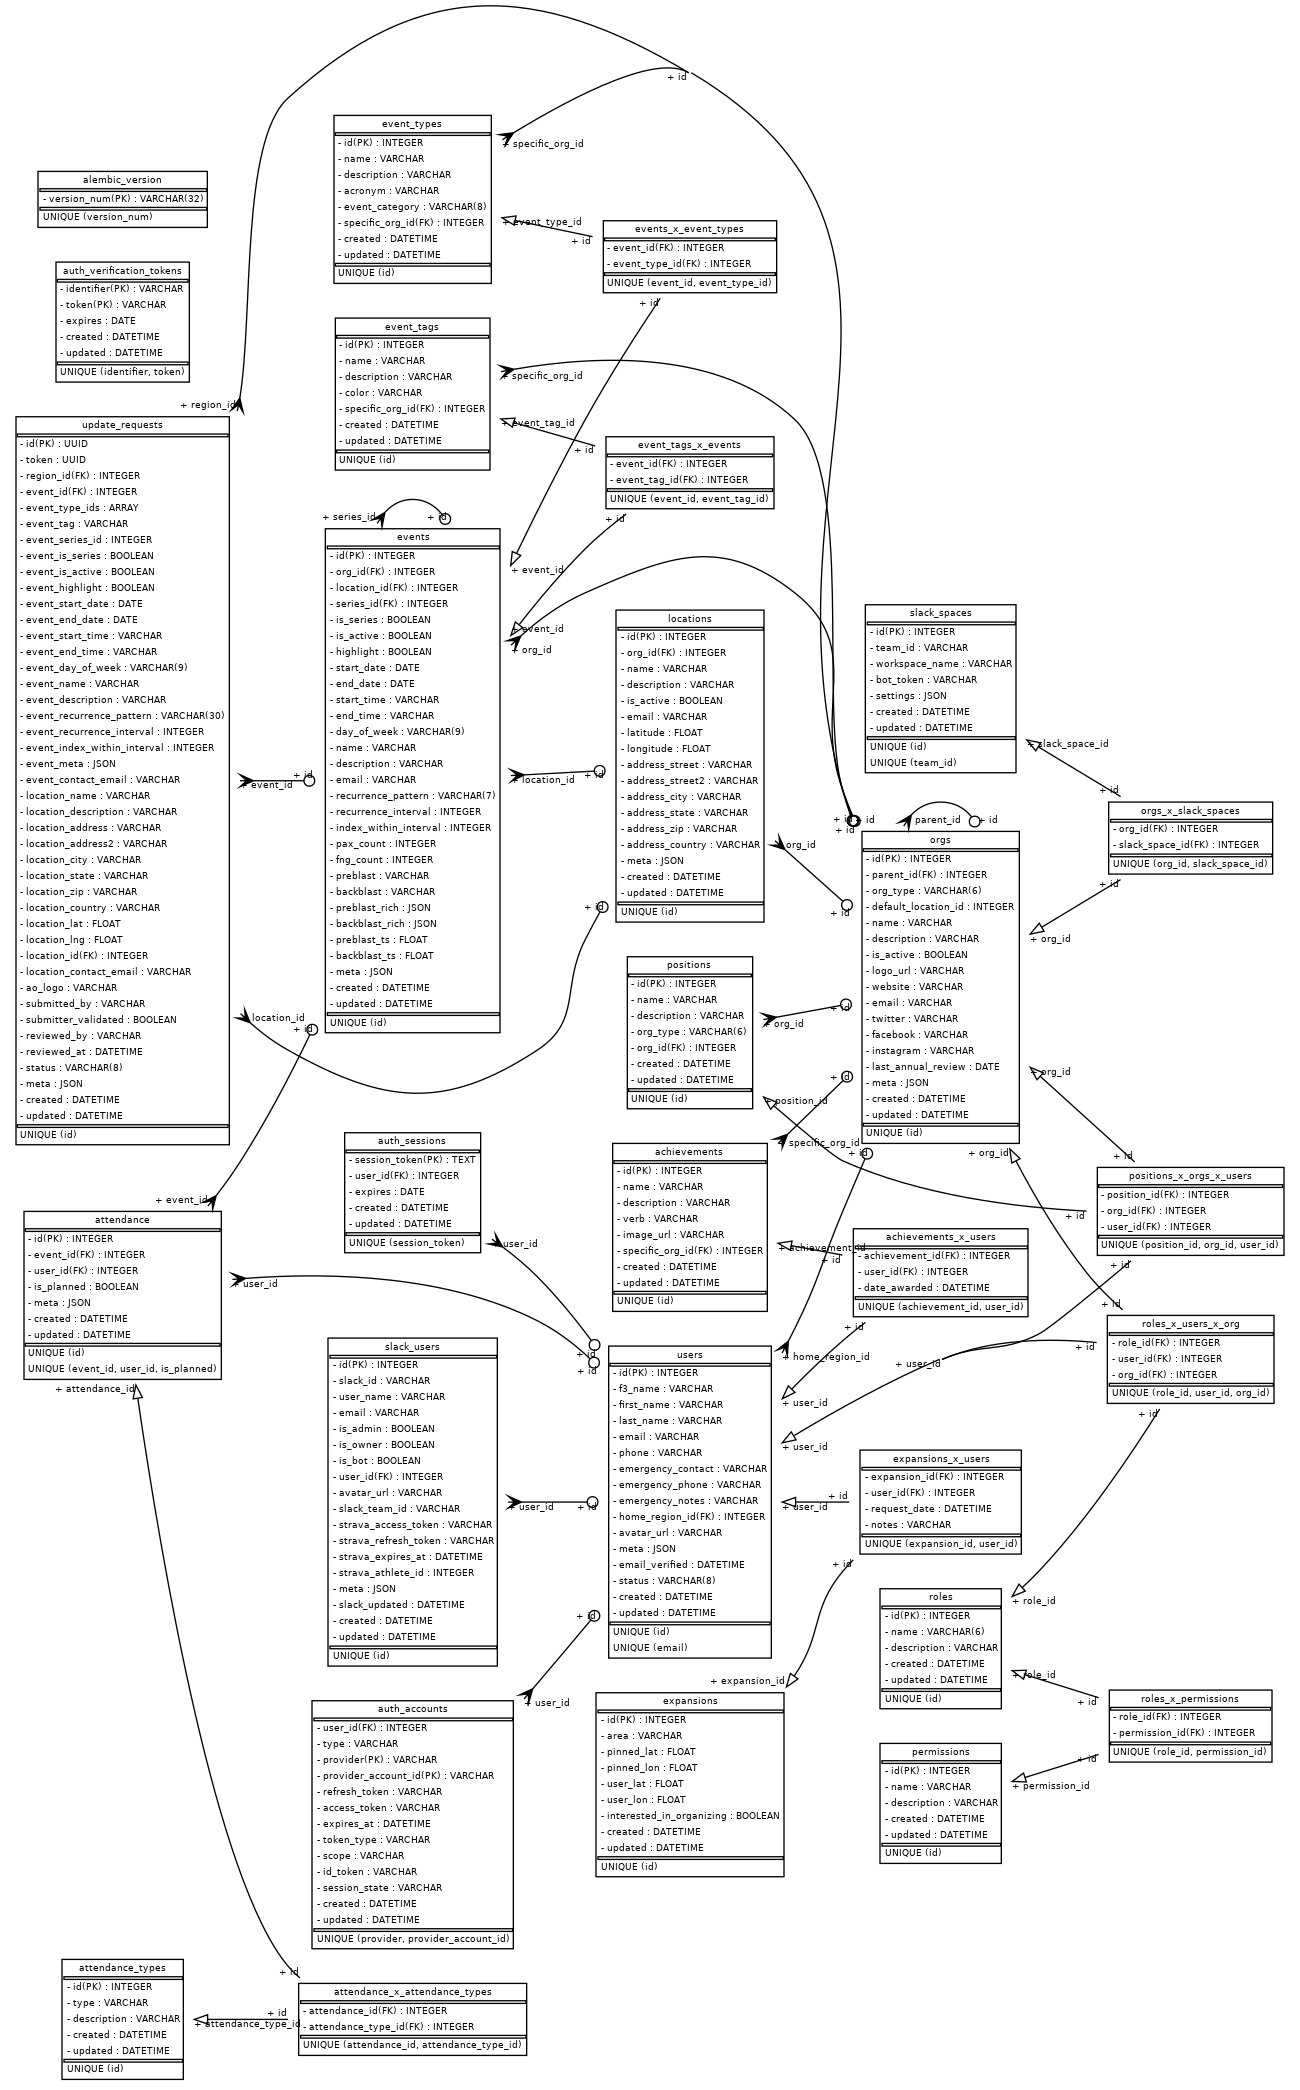
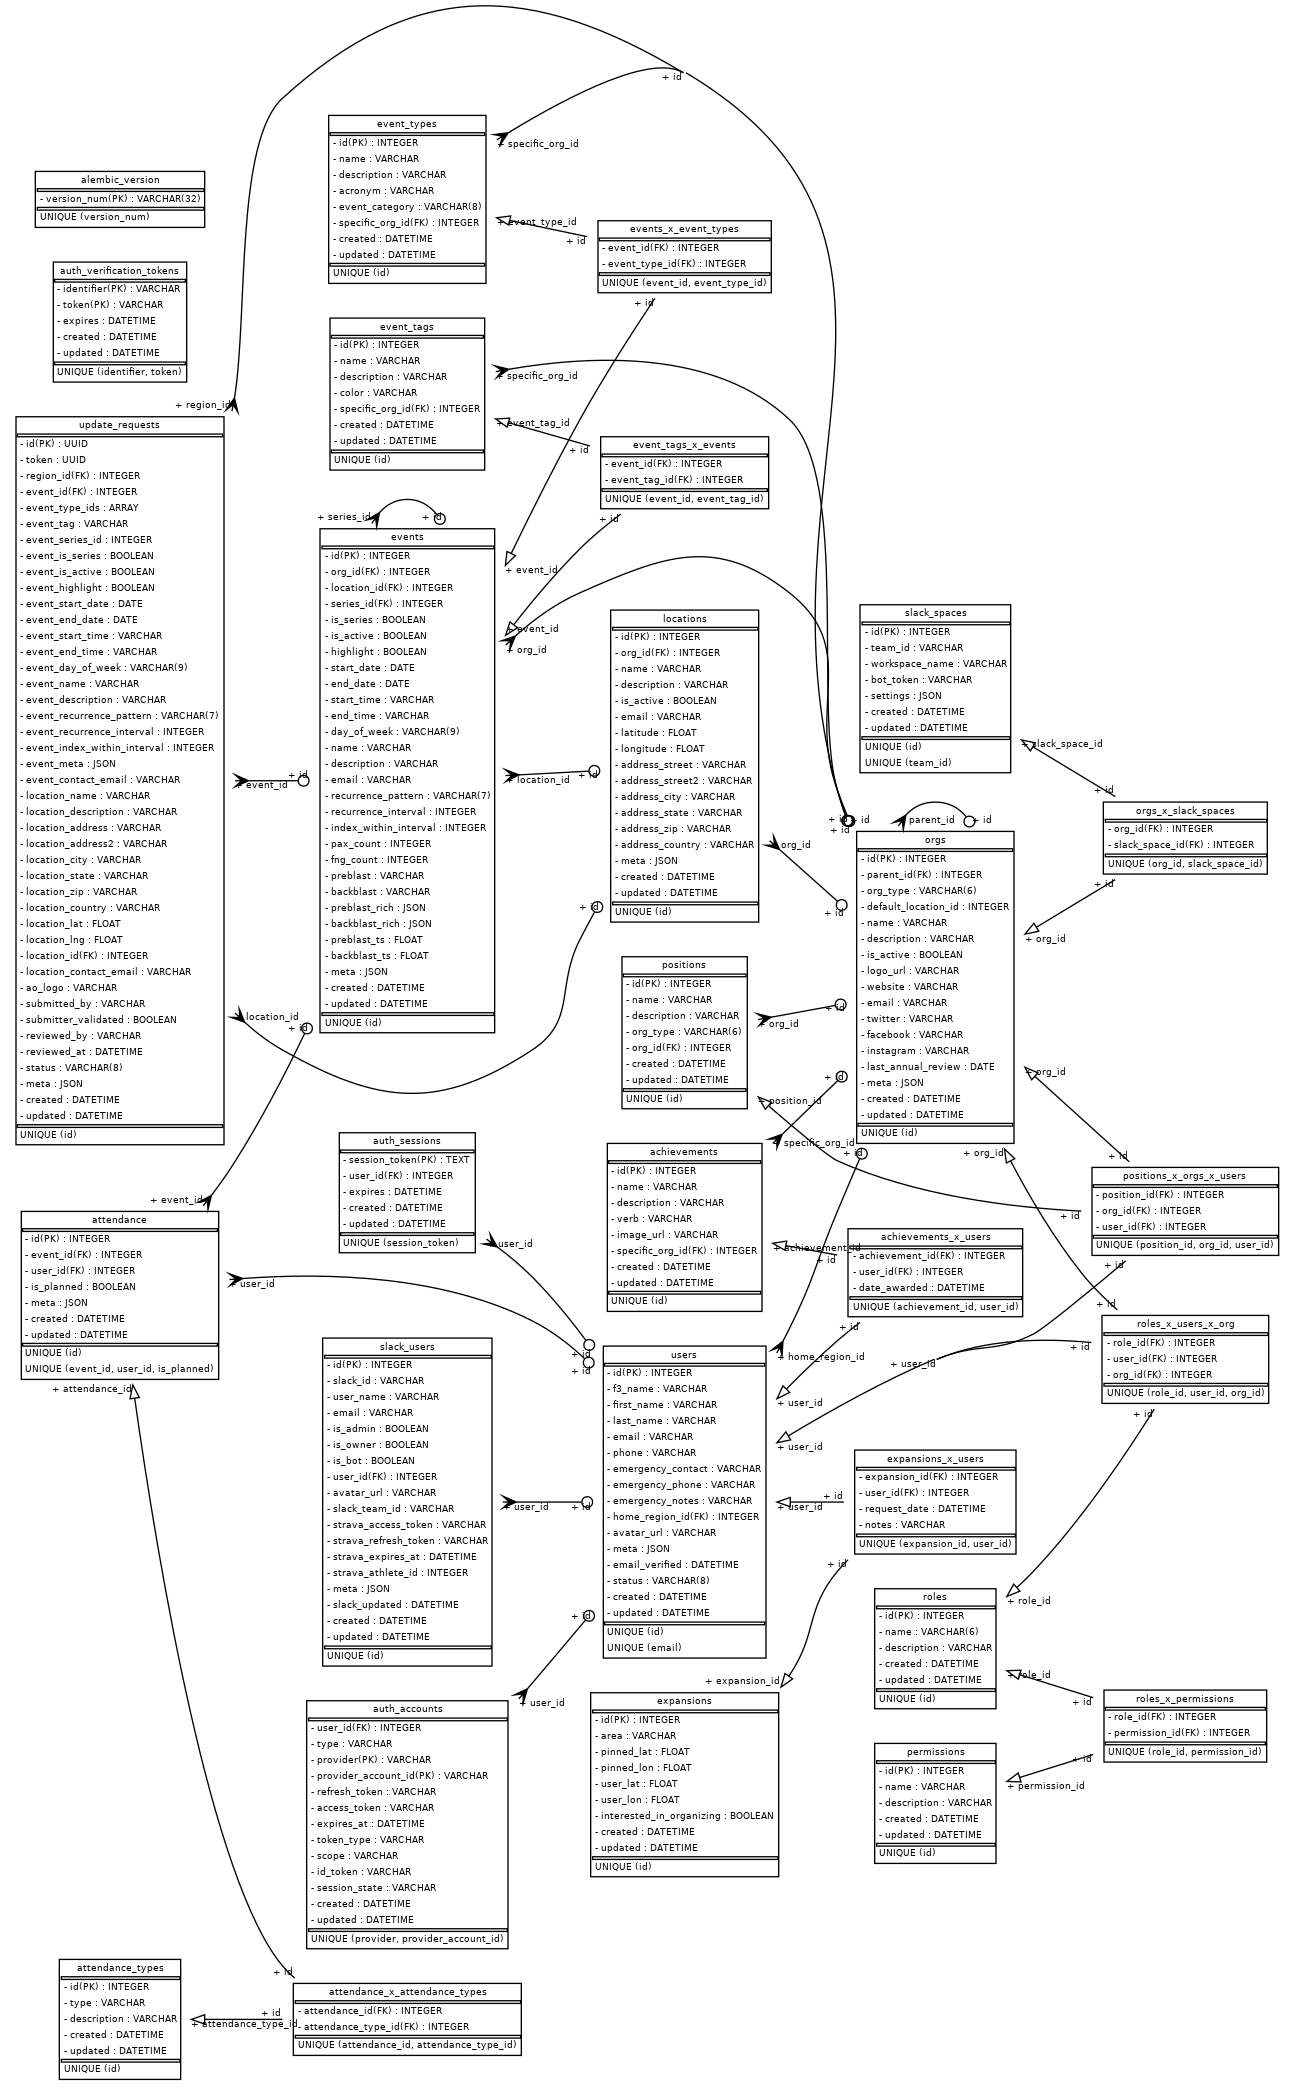
Auth and update table changes from Spuds

diff --git a/f3_data_models/models.py b/f3_data_models/models.py
@@ -1,6 +1,5 @@
 from datetime import datetime, date, time
 from typing import Any, Dict, List, Optional
-import uuid
 from sqlalchemy import (
     ARRAY,
     JSON,
@@ -32,6 +31,7 @@ import enum
 # Custom Annotations
 time_notz = Annotated[time, TIME(timezone=False)]
 time_with_tz = Annotated[time, TIME(timezone=True)]
+ts_notz = Annotated[datetime, DateTime(timezone=False)]
 text = Annotated[str, TEXT]
 intpk = Annotated[int, mapped_column(Integer, primary_key=True, autoincrement=True)]
 dt_create = Annotated[
@@ -663,10 +663,13 @@ class Event(Base):
         secondary="event_tags_x_events", cascade="expunge", viewonly=True
     )
     event_x_event_types: Mapped[List[EventType_x_Event]] = relationship(
-        back_populates="event"
+        back_populates="event", cascade="save-update, merge, delete"
     )
     event_x_event_tags: Mapped[Optional[List[EventTag_x_Event]]] = relationship(
-        back_populates="event"
+        back_populates="event", cascade="save-update, merge, delete"
+    )
+    attendance: Mapped[List["Attendance"]] = relationship(
+        back_populates="event", cascade="expunge, delete"
     )
 
 
@@ -841,7 +844,7 @@ class Attendance(Base):
         innerjoin=False, cascade="expunge", secondary="users", viewonly=True
     )
     attendance_x_attendance_types: Mapped[List[Attendance_x_AttendanceType]] = (
-        relationship(back_populates="attendance")
+        relationship(back_populates="attendance", cascade="save-update, merge, delete")
     )
     attendance_types: Mapped[List[AttendanceType]] = relationship(
         secondary="attendance_x_attendance_types",
@@ -1002,7 +1005,7 @@ class NextAuthAccount(Base):
         provider (text): The provider of the account.
         provider_account_id (text): The provider account ID.
         refresh_token (Optional[text]): The refresh token.
-        access_token (text): The access token.
+        access_token (Optional[text]): The access token.
         expires_at (Optional[datetime]): The expiration time of the token.
         token_type (Optional[text]): The token type.
         scope (Optional[text]): The scope of the token.
@@ -1019,7 +1022,7 @@ class NextAuthAccount(Base):
     provider: Mapped[text] = mapped_column(VARCHAR, primary_key=True)
     provider_account_id: Mapped[text] = mapped_column(VARCHAR, primary_key=True)
     refresh_token: Mapped[Optional[text]]
-    access_token: Mapped[text]
+    access_token: Mapped[Optional[text]]
     expires_at: Mapped[Optional[datetime]]
     token_type: Mapped[Optional[text]]
     scope: Mapped[Optional[text]]
@@ -1036,7 +1039,7 @@ class NextAuthSession(Base):
     Attributes:
         session_token (text): The session token.
         user_id (int): The ID of the associated user.
-        expires (date): The expiration time of the session.
+        expires (ts_notz): The expiration time of the session.
         created (datetime): The timestamp when the record was created.
         updated (datetime): The timestamp when the record was last updated.
     """
@@ -1044,8 +1047,8 @@ class NextAuthSession(Base):
     __tablename__ = "auth_sessions"
 
     session_token: Mapped[text] = mapped_column(TEXT, primary_key=True)
-    user_id: Mapped[int] = mapped_column(ForeignKey("users.id"))
-    expires: Mapped[date]
+    user_id: Mapped[int] = mapped_column(ForeignKey("users.id", ondelete="CASCADE"))
+    expires: Mapped[ts_notz]
     created: Mapped[dt_create]
     updated: Mapped[dt_update]
 
@@ -1057,7 +1060,7 @@ class NextAuthVerificationToken(Base):
     Attributes:
         identifier (text): The identifier of the token.
         token (text): The token.
-        expires (date): The expiration time of the token.
+        expires (ts_notz): The expiration time of the token.
         created (datetime): The timestamp when the record was created.
         updated (datetime): The timestamp when the record was last updated.
     """
@@ -1066,7 +1069,7 @@ class NextAuthVerificationToken(Base):
 
     identifier: Mapped[text] = mapped_column(VARCHAR, primary_key=True)
     token: Mapped[text] = mapped_column(VARCHAR, primary_key=True)
-    expires: Mapped[date]
+    expires: Mapped[ts_notz]
     created: Mapped[dt_create]
     updated: Mapped[dt_update]
 
@@ -1093,7 +1096,7 @@ class UpdateRequest(Base):
         event_day_of_week (Optional[Day_Of_Week]): The day of the week of the event.
         event_name (str): The name of the event.
         event_description (Optional[text]): A description of the event.
-        event_recurrence_pattern (Optional[str]): The recurrence pattern of the event.
+        event_recurrence_pattern (Optional[Event_Cadence]): The recurrence pattern of the event.
         event_recurrence_interval (Optional[int]): The recurrence interval of the event.
         event_index_within_interval (Optional[int]): The index within the recurrence interval.
         event_meta (Optional[Dict[str, Any]]): Additional metadata for the event.
@@ -1124,7 +1127,9 @@ class UpdateRequest(Base):
     __tablename__ = "update_requests"
 
     id: Mapped[Uuid] = mapped_column(UUID(as_uuid=True), primary_key=True)
-    token: Mapped[Uuid] = mapped_column(UUID(as_uuid=True), default=uuid.uuid4)
+    token: Mapped[Uuid] = mapped_column(
+        UUID(as_uuid=True), server_default=func.gen_random_uuid()
+    )
     region_id: Mapped[int] = mapped_column(ForeignKey("orgs.id"))
     event_id: Mapped[Optional[int]] = mapped_column(ForeignKey("events.id"))
     event_type_ids: Mapped[Optional[List[int]]] = mapped_column(ARRAY(Integer))
@@ -1140,7 +1145,7 @@ class UpdateRequest(Base):
     event_day_of_week: Mapped[Optional[Day_Of_Week]]
     event_name: Mapped[str]
     event_description: Mapped[Optional[text]]
-    event_recurrence_pattern: Mapped[Optional[str]] = mapped_column(VARCHAR(length=30))
+    event_recurrence_pattern: Mapped[Optional[Event_Cadence]]
     event_recurrence_interval: Mapped[Optional[int]]
     event_index_within_interval: Mapped[Optional[int]]
     event_meta: Mapped[Optional[Dict[str, Any]]]

diff --git a/alembic/versions/fdfecfac90da_misc_auth_and_update_table_changes_from_.py b/alembic/versions/fdfecfac90da_misc_auth_and_update_table_changes_from_.py
@@ -1,0 +1,122 @@
+"""misc auth and update table changes from Spuds
+
+Revision ID: fdfecfac90da
+Revises: e41f29d2b687
+Create Date: 2025-02-27 05:36:43.875411
+
+"""
+
+from typing import Sequence, Union
+
+from alembic import op
+import sqlalchemy as sa
+
+
+# revision identifiers, used by Alembic.
+revision: str = "fdfecfac90da"
+down_revision: Union[str, None] = "e41f29d2b687"
+branch_labels: Union[str, Sequence[str], None] = None
+depends_on: Union[str, Sequence[str], None] = None
+
+
+def upgrade() -> None:
+    # ### commands auto generated by Alembic - please adjust! ###
+    op.alter_column(
+        "auth_accounts", "access_token", existing_type=sa.VARCHAR(), nullable=True
+    )
+    op.alter_column(
+        "auth_sessions",
+        "expires",
+        existing_type=sa.DATE(),
+        type_=sa.TIMESTAMP(),
+        existing_nullable=False,
+        postgresql_using="expires::timestamp without time zone",
+    )
+    op.drop_constraint(
+        "auth_sessions_user_id_fkey", "auth_sessions", type_="foreignkey"
+    )
+    op.create_foreign_key(
+        None, "auth_sessions", "users", ["user_id"], ["id"], ondelete="CASCADE"
+    )
+    op.alter_column(
+        "auth_verification_tokens",
+        "expires",
+        existing_type=sa.DATE(),
+        type_=sa.TIMESTAMP(),
+        existing_nullable=False,
+        postgresql_using="expires::timestamp without time zone",
+    )
+    op.alter_column(
+        "update_requests",
+        "event_recurrence_pattern",
+        existing_type=sa.VARCHAR(length=30),
+        type_=sa.Enum("weekly", "monthly", name="event_cadence"),
+        existing_nullable=True,
+        postgresql_using="event_recurrence_pattern::event_cadence",
+    )
+    op.alter_column(
+        "update_requests",
+        "location_lat",
+        existing_type=sa.REAL(),
+        type_=sa.Float(precision=8, decimal_return_scale=5),
+        existing_nullable=True,
+    )
+    op.alter_column(
+        "update_requests",
+        "location_lng",
+        existing_type=sa.REAL(),
+        type_=sa.Float(precision=8, decimal_return_scale=5),
+        existing_nullable=True,
+    )
+    # ### end Alembic commands ###
+
+
+def downgrade() -> None:
+    # ### commands auto generated by Alembic - please adjust! ###
+    op.alter_column(
+        "update_requests",
+        "location_lng",
+        existing_type=sa.Float(precision=8, decimal_return_scale=5),
+        type_=sa.REAL(),
+        existing_nullable=True,
+    )
+    op.alter_column(
+        "update_requests",
+        "location_lat",
+        existing_type=sa.Float(precision=8, decimal_return_scale=5),
+        type_=sa.REAL(),
+        existing_nullable=True,
+    )
+    op.alter_column(
+        "update_requests",
+        "event_recurrence_pattern",
+        existing_type=sa.Enum("weekly", "monthly", name="event_cadence"),
+        type_=sa.VARCHAR(length=30),
+        existing_nullable=True,
+    )
+    op.alter_column(
+        "auth_verification_tokens",
+        "expires",
+        existing_type=sa.TIMESTAMP(),
+        type_=sa.DATE(),
+        existing_nullable=False,
+        postgresql_using="expires::date",
+    )
+    op.drop_constraint(
+        "auth_sessions_user_id_fkey", "auth_sessions", type_="foreignkey"
+    )
+    op.create_foreign_key(
+        "auth_sessions_user_id_fkey", "auth_sessions", "users", ["user_id"], ["id"]
+    )
+    op.alter_column(
+        "auth_sessions",
+        "expires",
+        existing_type=sa.TIMESTAMP(),
+        type_=sa.DATE(),
+        existing_nullable=False,
+        postgresql_using="expires::date",
+    )
+    op.alter_column(
+        "auth_accounts", "access_token", existing_type=sa.VARCHAR(), nullable=False
+    )
+    # ### end Alembic commands ###

diff --git a/f3_data_models/testing.py b/f3_data_models/testing.py
@@ -12,7 +12,7 @@ def test_update_event():
         highlight=True,
         start_date=datetime.date(2025, 2, 17),
         end_date=datetime.date(2026, 2, 17),
-        start_time="0500",
+        start_time="0400",
         end_time="0600",
         event_x_event_types=[
             EventType_x_Event(event_type_id=3),
@@ -24,9 +24,10 @@ def test_update_event():
         name="Test Event",
     )
     update_dict = event.to_update_dict()
-    DbManager.update_records(Event, [Event.id == 3], update_dict)
+    DbManager.update_record(Event, 3, update_dict)
 
-    event = DbManager.get(Event, 3)
+    # event = DbManager.get(Event, 3)
+    DbManager.delete_records(Event, [Event.series_id == 3])
 
 
 if __name__ == "__main__":
